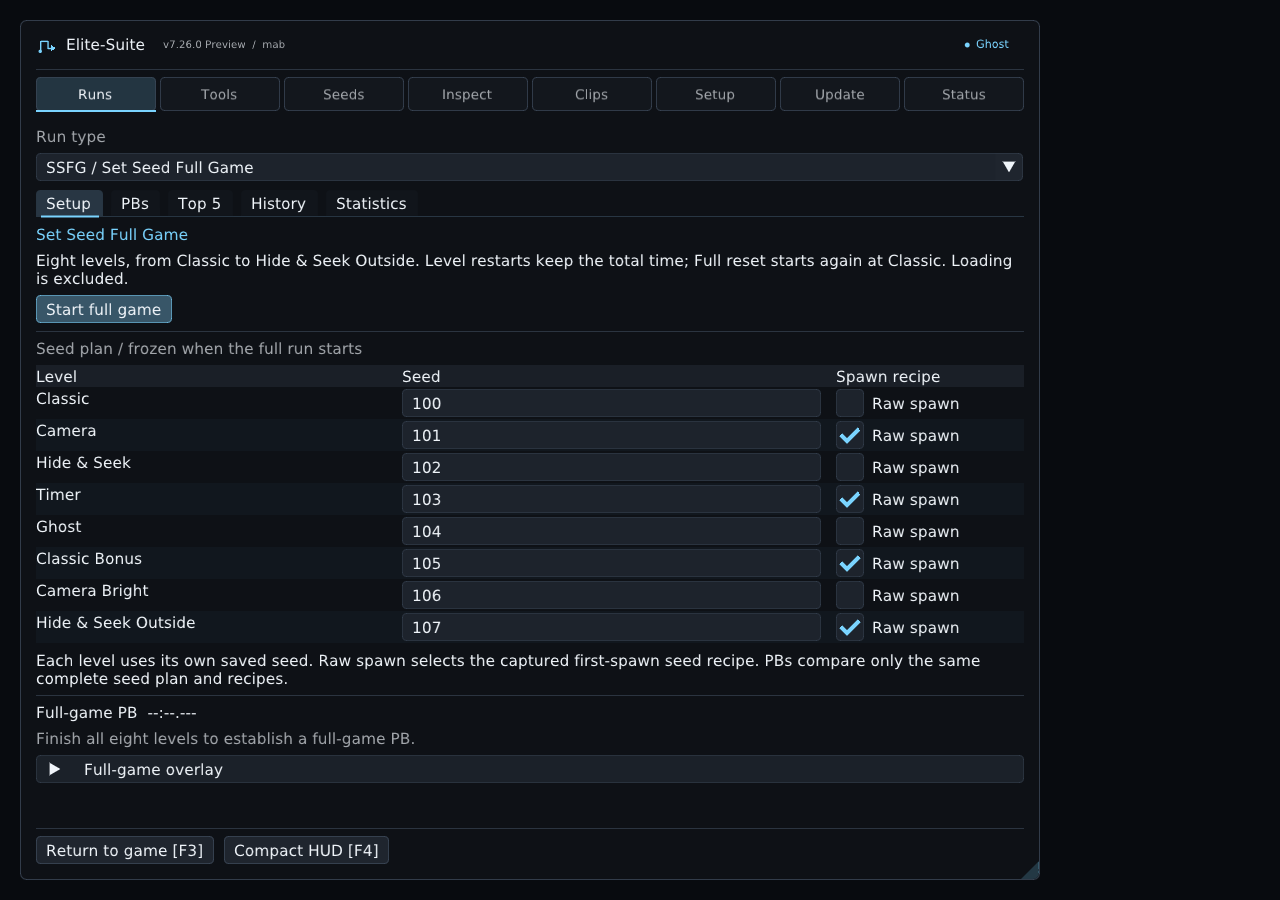
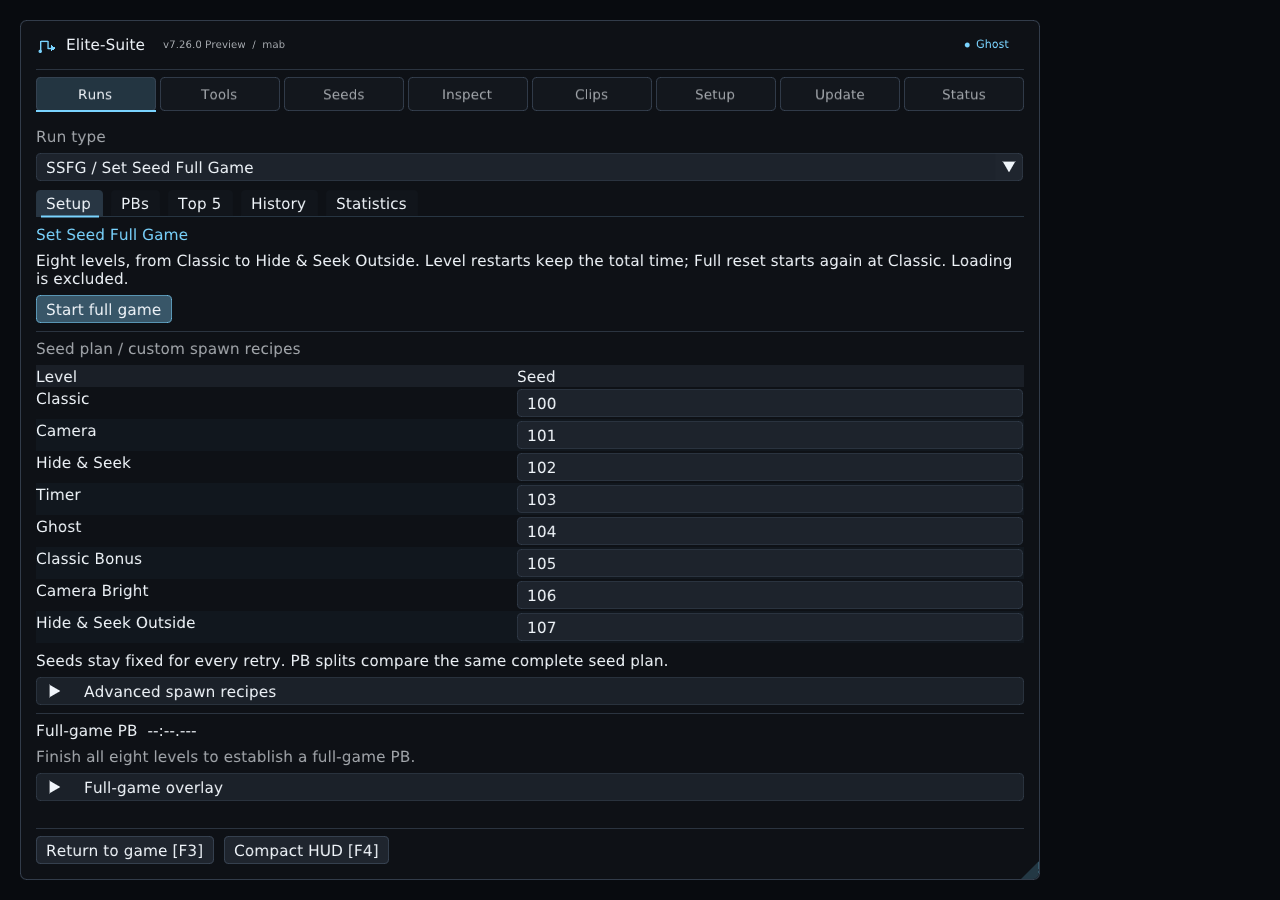
Simplify full-game setup and compact the campaign result

diff --git a/Trainer/FullGameUI.h b/Trainer/FullGameUI.h
@@ -93,24 +93,38 @@ inline void Setup()
     }
     if(p.mode==2)
     {
-        ImGui::Separator();ImGui::TextDisabled("Seed plan / frozen when the full run starts");
-        ImGui::BeginDisabled(active);
-        if(ImGui::BeginTable("Full-game seed plan",3,ImGuiTableFlags_RowBg|ImGuiTableFlags_SizingStretchProp))
+        ImGui::Separator();ImGui::TextDisabled("%s",p.raw?"Seed plan / custom spawn recipes":"Seed plan / fixed per run");
+        ImGui::BeginDisabled(active || HasPendingRequest());
+        if(ImGui::BeginTable("Full-game seed plan",2,ImGuiTableFlags_RowBg|ImGuiTableFlags_SizingStretchProp))
         {
-            ImGui::TableSetupColumn("Level",ImGuiTableColumnFlags_WidthStretch,1.5f);ImGui::TableSetupColumn("Seed");
-            ImGui::TableSetupColumn("Spawn recipe",ImGuiTableColumnFlags_WidthStretch,.8f);ImGui::TableHeadersRow();
+            ImGui::TableSetupColumn("Level",ImGuiTableColumnFlags_WidthStretch,1.4f);ImGui::TableSetupColumn("Seed");ImGui::TableHeadersRow();
             for(int i=0;i<8;i++)
             {
                 ImGui::PushID(i);ImGui::TableNextRow();ImGui::TableNextColumn();ImGui::TextUnformatted(kMapLevelNames[i]);
                 ImGui::TableNextColumn();ImGui::SetNextItemWidth(-1);ImGui::InputInt("##Seed",&p.seeds[i],0,0);
-                ImGui::TableNextColumn();bool raw=(p.raw&(1u<<i))!=0;
-                if(suite_ui::Checkbox("Raw spawn",&raw)){if(raw)p.raw|=1u<<i;else p.raw&=~(1u<<i);}
                 ImGui::PopID();
             }
             ImGui::EndTable();
         }
         ImGui::EndDisabled();
-        ImGui::TextWrapped("Each level uses its own saved seed. Raw spawn selects the captured first-spawn seed recipe. PBs compare only the same complete seed plan and recipes.");
+        ImGui::TextWrapped("Seeds stay fixed for every retry. PB splits compare the same complete seed plan.");
+        if(suite_ui::CollapsingHeader("Advanced spawn recipes"))
+        {
+            ImGui::TextWrapped("Keep the default recipe for a new plan. Raw spawn is for reusing a captured first-spawn seed. Changing a recipe creates a different comparison plan.");
+            ImGui::BeginDisabled(active || HasPendingRequest());
+            if(ImGui::BeginTable("Full-game spawn recipes",2,ImGuiTableFlags_RowBg|ImGuiTableFlags_SizingStretchProp))
+            {
+                for(int i=0;i<8;i++)
+                {
+                    ImGui::PushID(i);ImGui::TableNextRow();ImGui::TableNextColumn();ImGui::TextUnformatted(kMapLevelNames[i]);
+                    ImGui::TableNextColumn();bool raw=(p.raw&(1u<<i))!=0;
+                    if(suite_ui::Checkbox("Raw spawn",&raw)){if(raw)p.raw|=1u<<i;else p.raw&=~(1u<<i);}
+                    ImGui::PopID();
+                }
+                ImGui::EndTable();
+            }
+            ImGui::EndDisabled();
+        }
     }
     ImGui::Separator();
     auto archive=practice::g_replayArchive.Get();
@@ -209,8 +223,8 @@ inline void RenderResult()
     if(!resultOpen || !result)return;
     auto screen=ImGui::GetIO().DisplaySize;
     ImGui::SetNextWindowPos({screen.x*.5f,screen.y*.5f},ImGuiCond_Always,{.5f,.5f});
-    ImGui::SetNextWindowSize({std::min(760.f*g_dpiScale,screen.x-24),std::min(650.f*g_dpiScale,screen.y-24)},ImGuiCond_Always);
-    if(ImGui::Begin("Full-game result",&resultOpen,ImGuiWindowFlags_NoCollapse))
+    ImGui::SetNextWindowSize({std::min(760.f*g_dpiScale,screen.x-24),std::min(530.f*g_dpiScale,screen.y-24)},ImGuiCond_Always);
+    if(ImGui::Begin("Full-game result",&resultOpen,ImGuiWindowFlags_NoCollapse|ImGuiWindowFlags_NoResize|ImGuiWindowFlags_NoSavedSettings))
     {
         float available=ImGui::GetContentRegionAvail().x,used=0;int rows=1;
         for(const char *label:{"Full reset / Classic","Full-game replays","Close"})

diff --git a/DEVELOPING.md b/DEVELOPING.md
@@ -67,7 +67,7 @@ Finished campaigns form expandable replay groups. Only successful level attempts
 
 `TrainerHotkeys.h` accepts the five Windows mouse virtual keys alongside keyboard bindings. The native dispatcher polls mouse buttons only with game/trainer focus, consumes disabled edges, applies exact modifiers and skips `RegisterHotKey` for mouse bindings. The assignment modal reads ImGui mouse events after current-frame control hover is known, waits for all held buttons to release and does not bind clicks on Cancel/Unassign. M1-M3 bindings pause while trainer menus are interactive so clicks keep operating controls; M4/M5 actions, including full reset from the result, remain usable under the existing text-entry/focus guards. Extra device buttons that the mouse driver exposes as keyboard keys use ordinary keyboard bindings. No global input hook or input suppression is added.
 
-`FullGameUI.h`, `FullGameArchiveUI.h` and `FullGameReplayUI.h` own setup, the eight-row overlay, aggregate results, category/profile PBs, Top 5, history/statistics and replay groups. Browsing never starts a run. The overlay renders a frozen PB reference with cached animation entries and no filesystem access. The result and replay folder distinguish retry-inclusive sectors from successful attempt times. The table can be hidden while preserving the timer and validity status; position, size, scale and opacity are configurable.
+`FullGameUI.h`, `FullGameArchiveUI.h` and `FullGameReplayUI.h` own setup, the eight-row overlay, aggregate results, category/profile PBs, Top 5, history/statistics and replay groups. Browsing never starts a run. SSFG keeps seeds in the main table and hides optional spawn recipes under an expandable Advanced section; active plans can be inspected without becoming editable. Setup and results use scrollable bodies at small viewports, with primary actions and responsive footers. The overlay renders a frozen PB reference with cached animation entries and no filesystem access. The result and replay folder distinguish retry-inclusive sectors from successful attempt times. The table can be hidden while preserving the timer and validity status; position, size, scale and opacity are configurable.
 
 Tests cover the pure clock and actual coordinator, every level transition and recipe, death/retry/full reset, skipped scenes, sticky integrity, cross-language metadata, restart recovery, folder export/import and actual ImGui actions at small viewports/DPI. The warmed eight-row overlay has an allocation contract independent of PC speed. UI previews use production draw lists with synthetic data. Portable checks do not measure Windows game FPS or guarantee instantaneous engine loading; those need an in-game pass. The confirmed arm/export rendering path is unchanged.
 

diff --git a/assets/preview-7.26/README.md b/assets/preview-7.26/README.md
@@ -4,7 +4,7 @@ Pre-release only. Stable automatic updates remain on 7.25.0 until the owner appr
 
 These images are captures of the actual production renderer with synthetic test data. The dark background is not a running game. Example times demonstrate the UI and are not real speedruns.
 
-- [Run setup](01-full-game-setup.png): choose Individual level, RSFG or SSFG under Runs. SSFG accepts a separate seed and spawn recipe for each level. Browsing or editing never starts a run; Start full game launches Classic.
+- [Run setup](01-full-game-setup.png): choose Individual level, RSFG or SSFG under Runs. SSFG shows one seed per level; optional spawn recipes are collapsed under Advanced and remain inspectable during a run. Browsing or editing never starts a run; Start full game launches Classic.
 - [Full-game HUD](02-full-game-hud.png): loadless total, category and validity, eight level sectors, PB sectors and cumulative red/green deltas. The active level moves automatically. Position, width, scale and opacity are adjustable; hiding the table keeps the clock and validity visible.
 - [Full-game result](03-full-game-result.png): final category, total, PB comparison and all eight completed sectors, including retries.
 - [Replay folders](04-full-game-replays.png): expand a campaign to access its eight successful level attempts, export the set or copy an SSFG seed plan. Sector time includes failed attempts; the child replay contains the successful attempt only.

diff --git a/CHANGELOG.md b/CHANGELOG.md
@@ -10,6 +10,7 @@ Changes by version. The full development history is in Git.
 - Improved replay sharing with full-game folder export and import: eight numbered level packages plus checksummed campaign metadata, processed one level at a time. Successful level recordings are protected from ordinary retention thresholds; missing files and storage failures remain visible.
 - Improved full-game transitions by publishing the held timer before synchronous scene loading, advancing without a per-level result dialog and encoding completed level maps on the existing background storage worker. The live overlay uses cached references, bounded data and the existing motion preference. This build is a pre-release and is excluded from stable automatic updates.
 - Improved shortcut support with M1-M5 mouse bindings, including M4/M5 side buttons and Ctrl/Alt/Shift combinations. Assignment waits for the opening click to release and preserves Cancel/Unassign controls; M1-M3 clicks keep operating menu controls, while M4/M5 shortcuts also work from the result screen.
+- Improved full-game usability with a focused seed table, optional spawn recipes under Advanced and a compact result window. Active seed plans can be inspected while editing stays locked; setup, results and the overlay retain the Suite styling and small-window/DPI support.
 
 ### v7.25.0 Changelog
 
